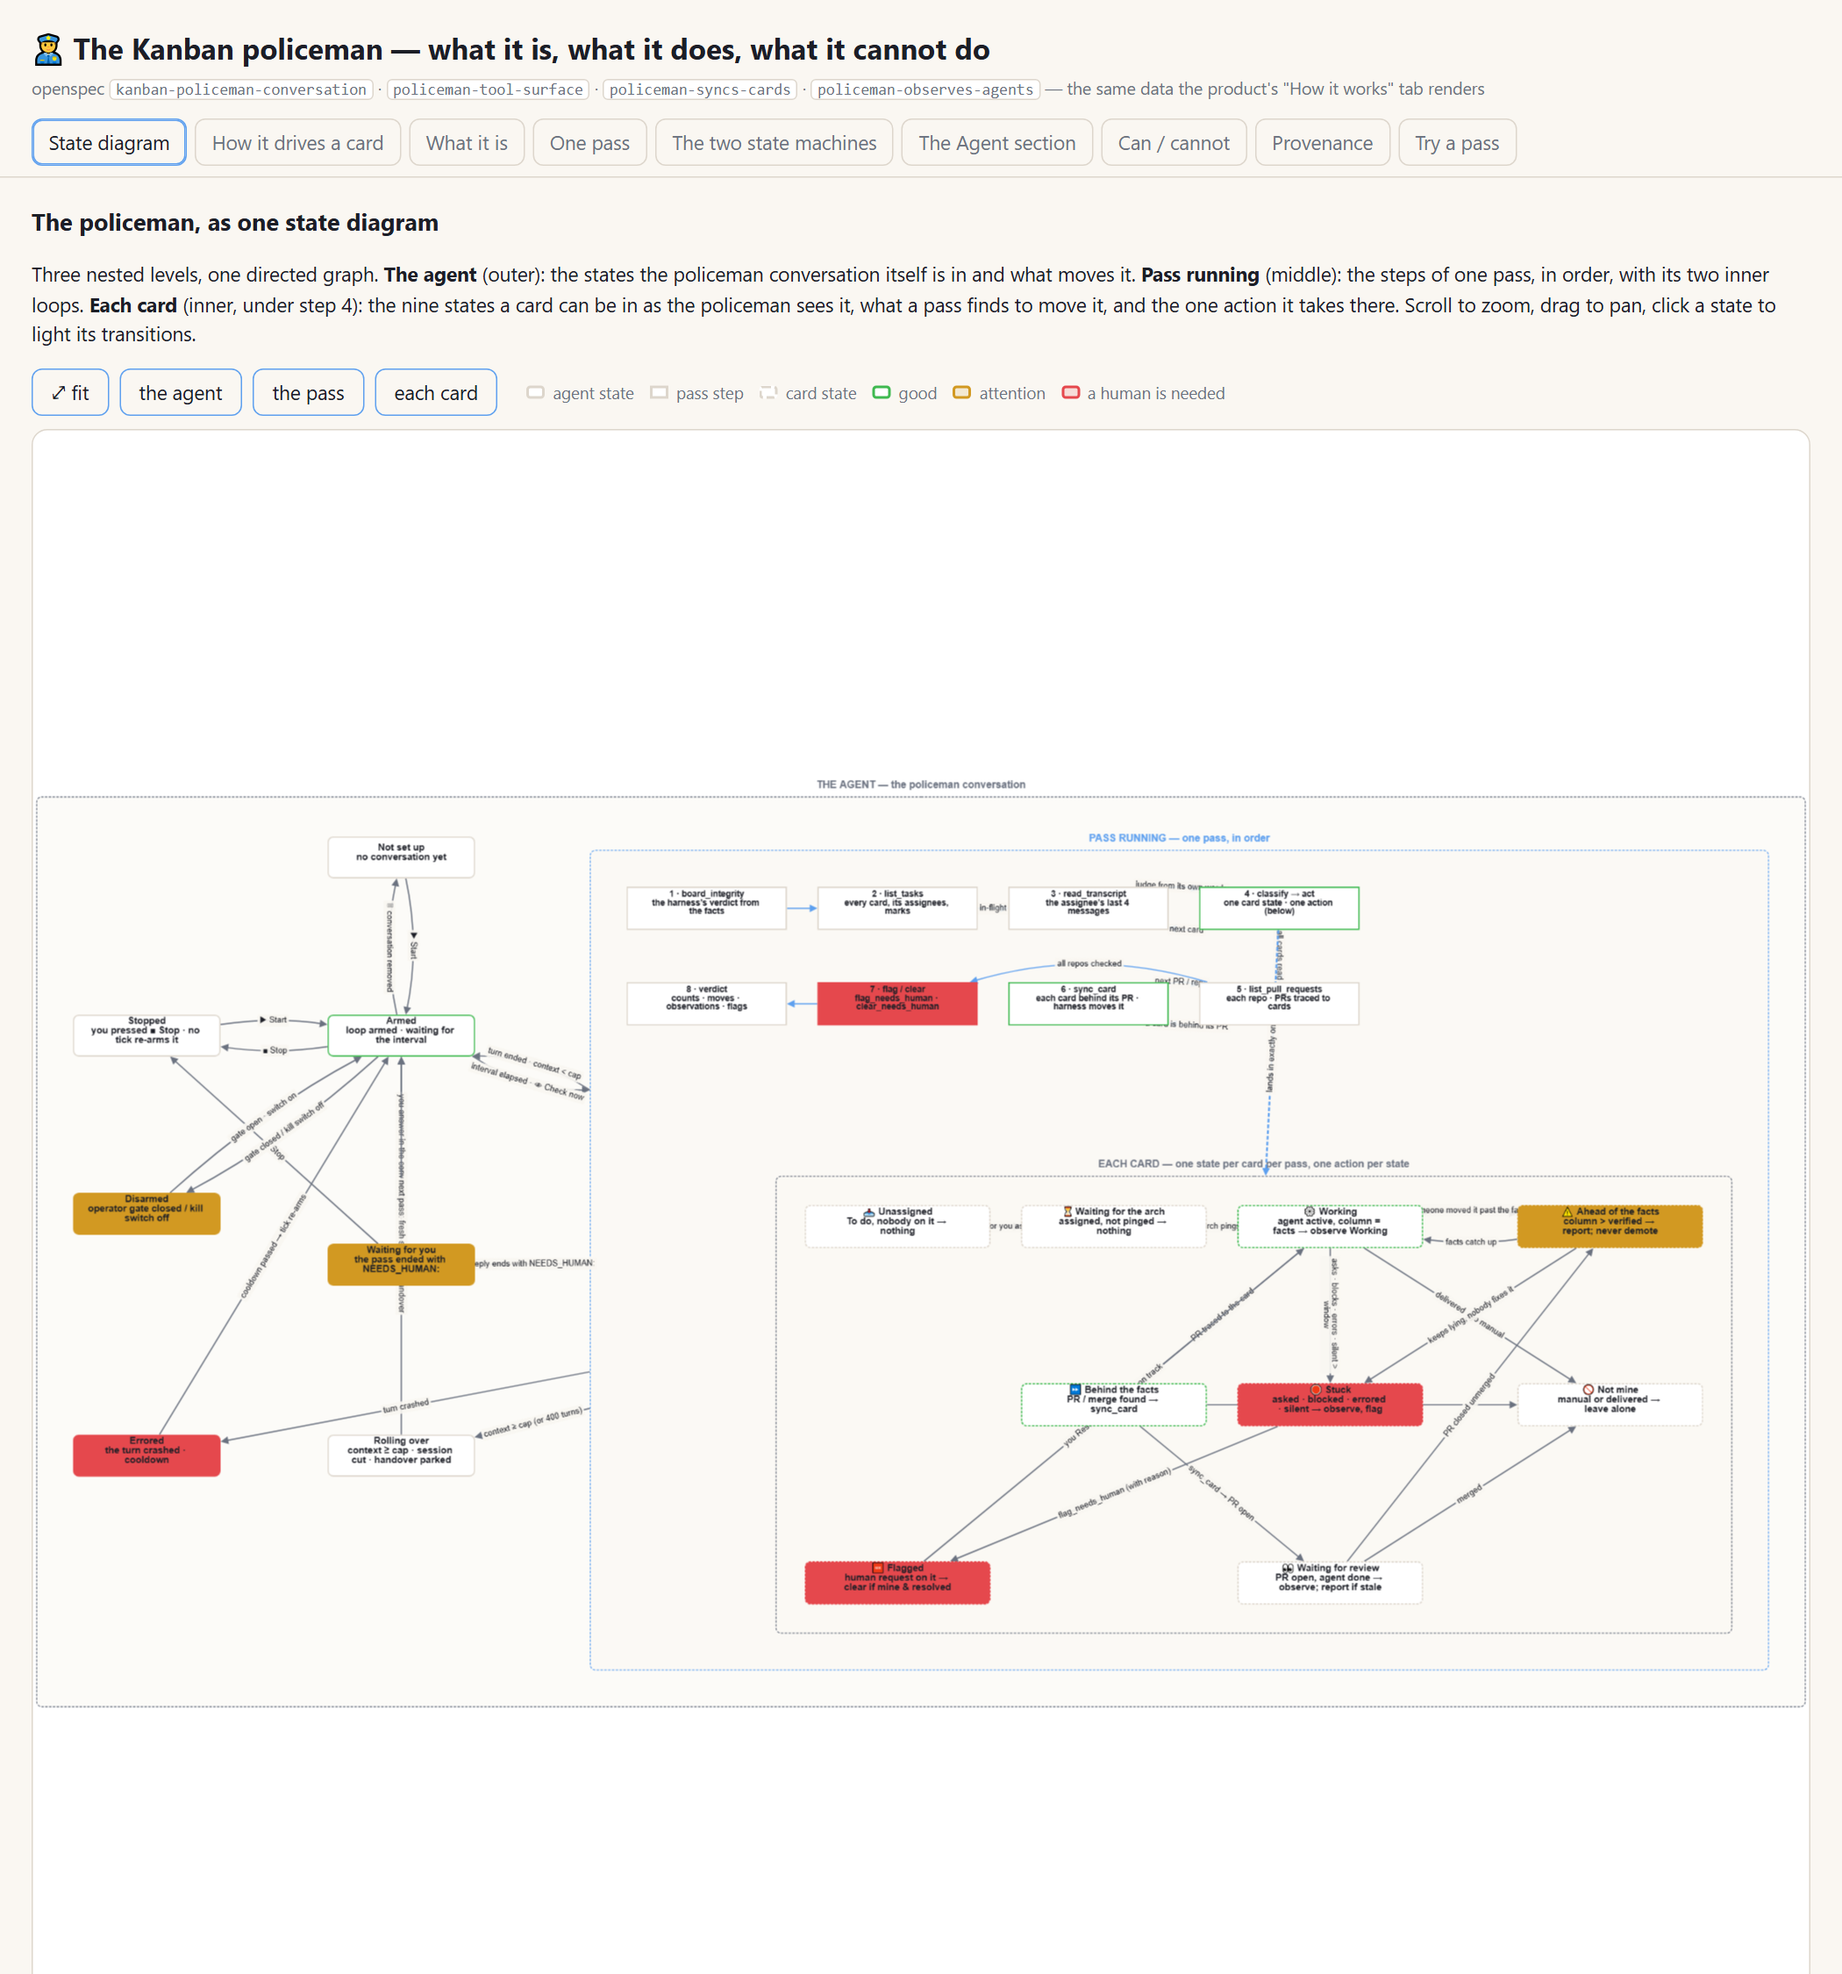
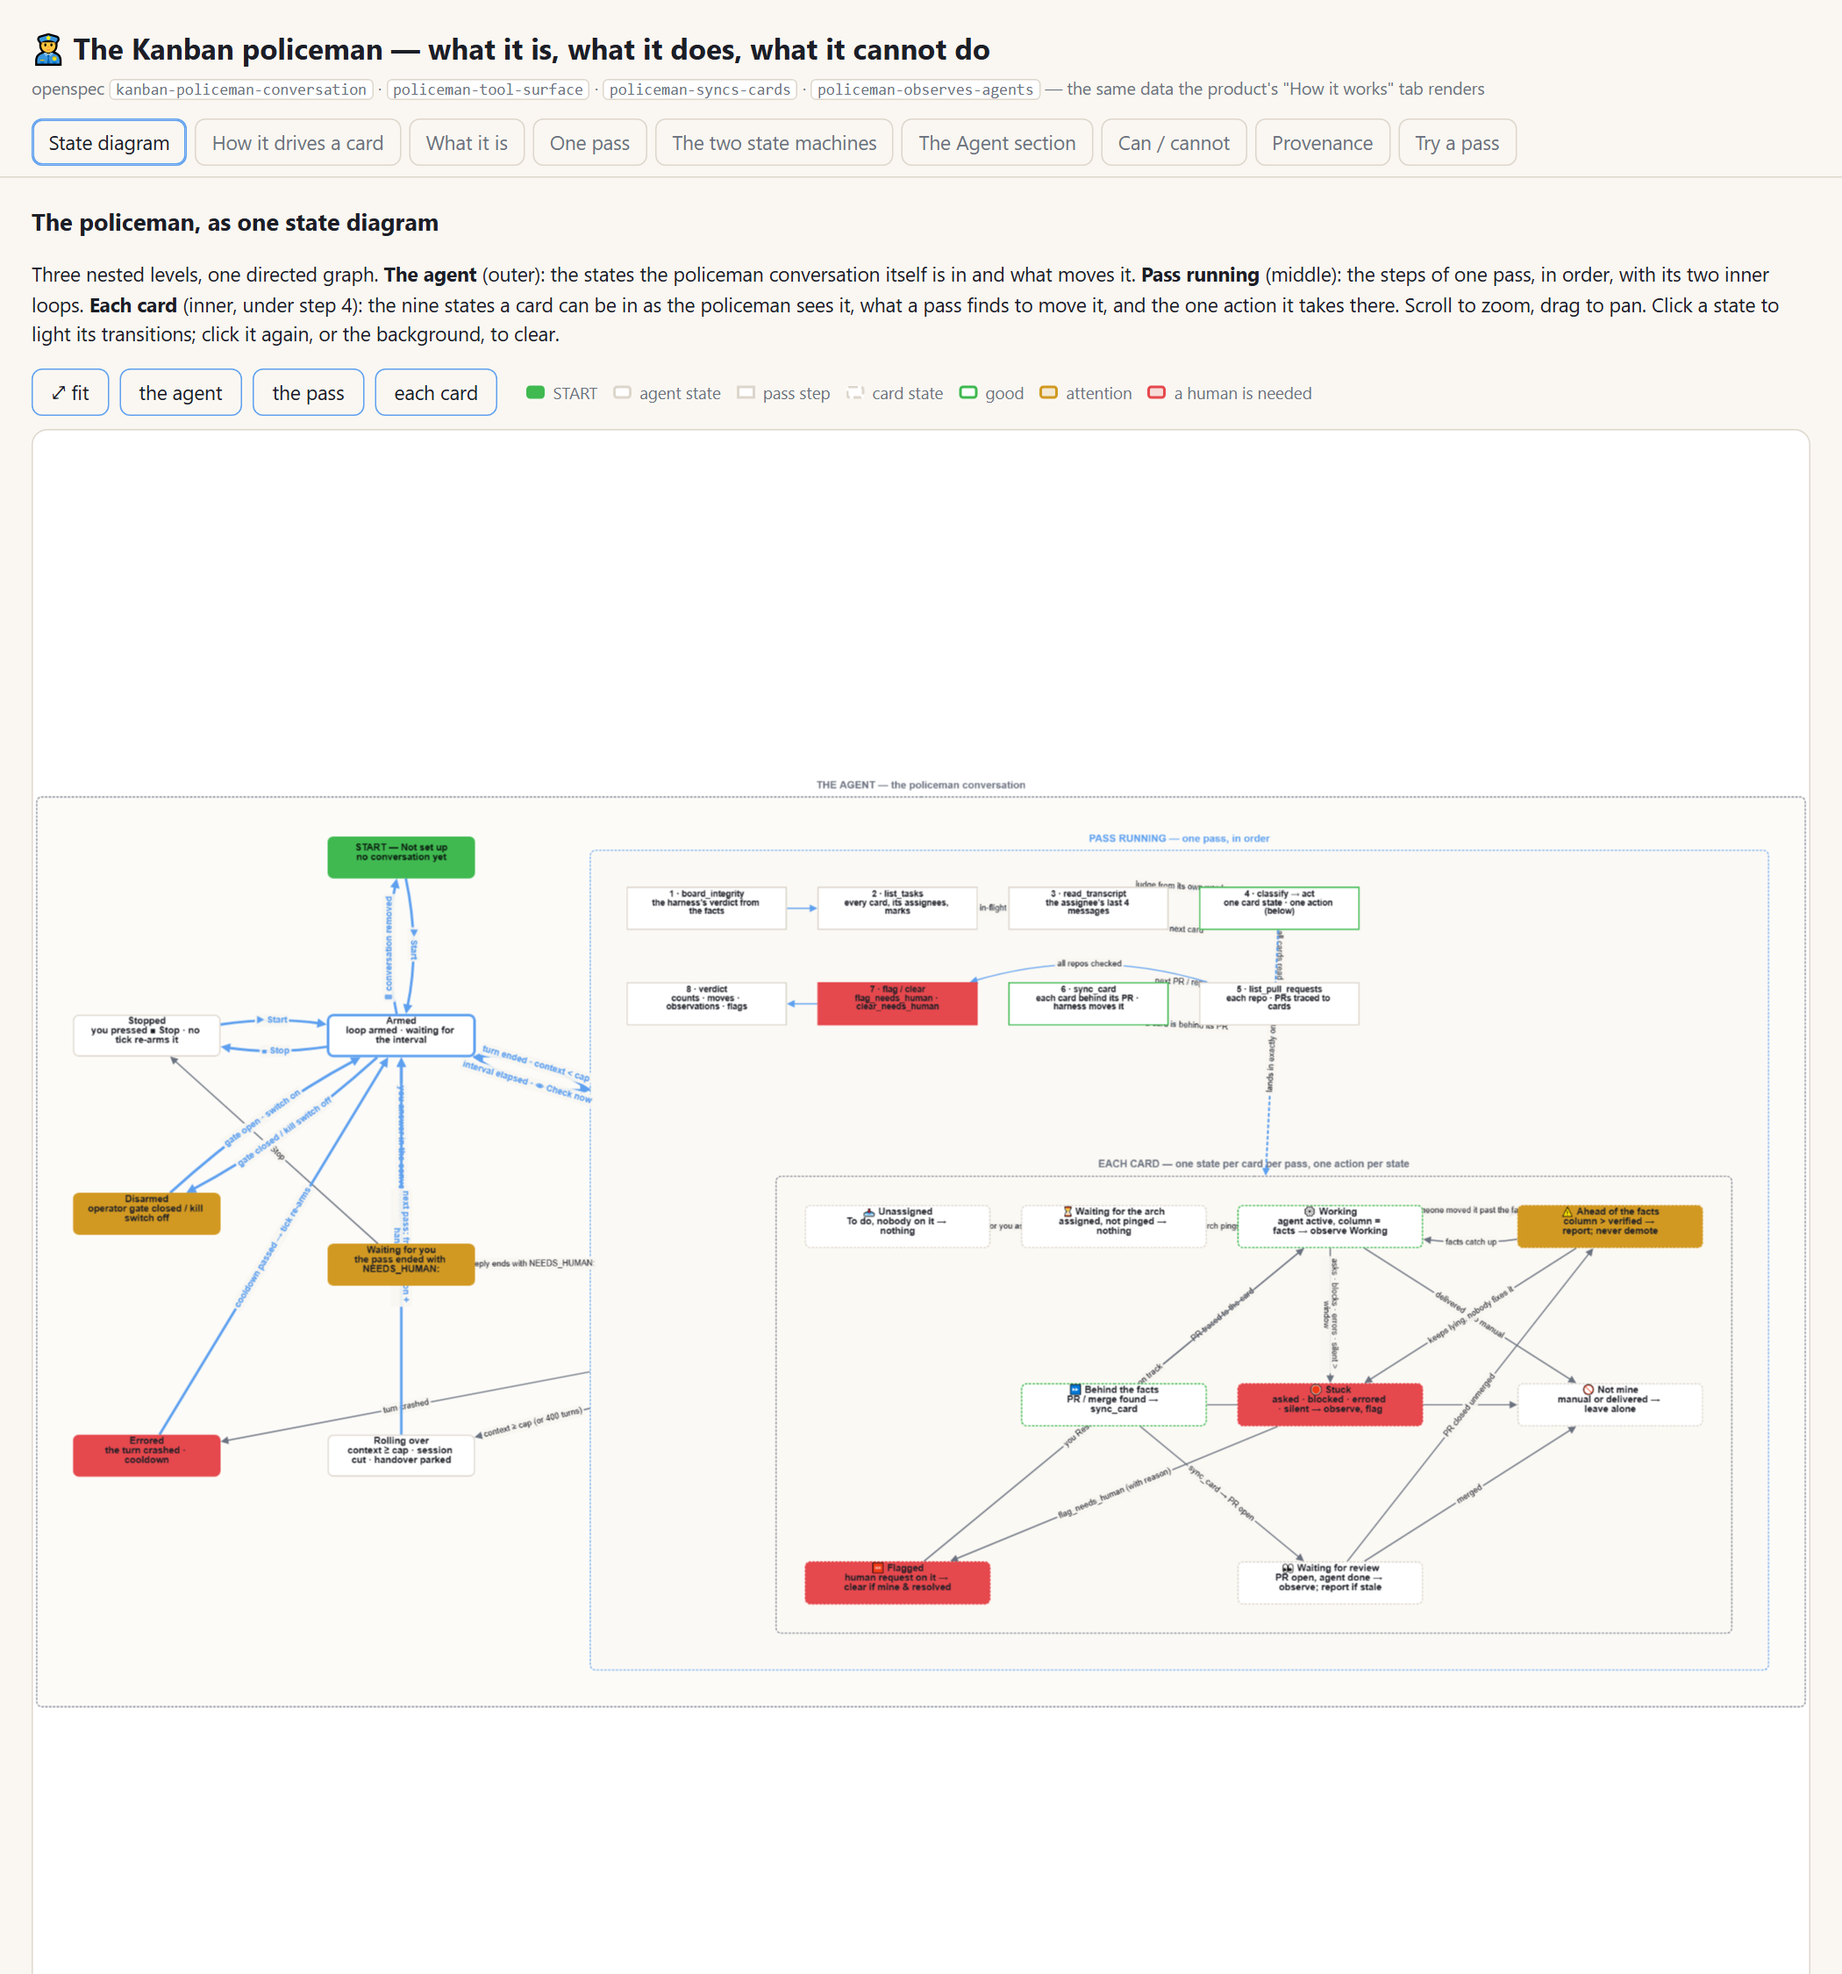
understanding app: click lights only a state's own transitions (no shrink, no dimming, click again to clear); START node green

diff --git a/understanding-app/app.js b/understanding-app/app.js
@@ -35,6 +35,7 @@ const cy = window.cytoscape({
   elements: toElements(),
   layout: { name: 'preset', fit: true, padding: 30 },
   wheelSensitivity: 0.2,
+  autounselectify: true,
   style: [
     { selector: 'node', style: { 'label': 'data(label)', 'text-wrap': 'wrap', 'text-max-width': 190, 'font-size': 15, 'font-weight': 700, 'color': css('--text'), 'text-valign': 'center', 'text-halign': 'center', 'shape': 'round-rectangle', 'width': 230, 'height': 64, 'background-color': css('--surface'), 'border-width': 2, 'border-color': css('--border'), 'text-margin-y': -8 } },
     { selector: 'node[sub]', style: { 'label': (n) => n.data('label') + '\n' + n.data('sub') } },
@@ -51,23 +52,23 @@ const cy = window.cytoscape({
     { selector: 'edge.flow', style: { 'line-color': css('--accent'), 'target-arrow-color': css('--accent') } },
     { selector: 'edge.link', style: { 'line-style': 'dashed', 'line-color': css('--accent'), 'target-arrow-color': css('--accent'), 'width': 3 } },
     { selector: 'edge.card', style: { 'line-color': css('--muted') } },
-    { selector: '.lit', style: { 'line-color': css('--accent'), 'target-arrow-color': css('--accent'), 'width': 3.5, 'color': css('--accent'), 'font-weight': 700, 'z-index': 9 } },
+    { selector: 'node.tone-start', style: { 'background-color': css('--green'), 'border-color': css('--green'), 'color': '#0b1a10' } },
+    { selector: 'edge.lit', style: { 'line-color': css('--accent'), 'target-arrow-color': css('--accent'), 'width': 4, 'color': css('--accent'), 'font-weight': 700, 'font-size': 14, 'z-index': 9 } },
     { selector: 'node.lit', style: { 'border-width': 4, 'border-color': css('--accent') } },
-    { selector: '.dim', style: { 'opacity': 0.18 } },
+    { selector: 'node:selected, edge:selected', style: { 'overlay-opacity': 0 } },
   ],
 });
 window.cy = cy;
 cy.on('tap', 'node', (ev) => {
   const n = ev.target;
   if (n.hasClass('group')) return;
-  cy.elements().removeClass('lit dim');
-  const edges = n.connectedEdges();
-  const near = edges.connectedNodes().union(n);
-  cy.elements().not(edges).not(near).not('node.group').addClass('dim');
-  edges.addClass('lit');
+  const again = n.hasClass('lit');
+  cy.elements().removeClass('lit');
+  if (again) return; // a second click on the same state clears it
+  n.connectedEdges().addClass('lit');
   n.addClass('lit');
 });
-cy.on('tap', (ev) => { if (ev.target === cy) cy.elements().removeClass('lit dim'); });
+cy.on('tap', (ev) => { if (ev.target === cy) cy.elements().removeClass('lit'); });
 const focus = (sel) => cy.animate({ fit: { eles: cy.$(sel), padding: 40 }, duration: 350 });
 $('#cy-fit').addEventListener('click', () => cy.animate({ fit: { eles: cy.elements(), padding: 30 }, duration: 350 }));
 $('#cy-agent').addEventListener('click', () => focus('node[kind="state"], node#pass'));

diff --git a/understanding-app/index.html b/understanding-app/index.html
@@ -26,13 +26,13 @@
 <main>
 <section class="view is-on" data-view="machine">
   <h2>The policeman, as one state diagram</h2>
-  <p>Three nested levels, one directed graph. <b>The agent</b> (outer): the states the policeman conversation itself is in and what moves it. <b>Pass running</b> (middle): the steps of one pass, in order, with its two inner loops. <b>Each card</b> (inner, under step 4): the nine states a card can be in as the policeman sees it, what a pass finds to move it, and the one action it takes there. Scroll to zoom, drag to pan, click a state to light its transitions.</p>
+  <p>Three nested levels, one directed graph. <b>The agent</b> (outer): the states the policeman conversation itself is in and what moves it. <b>Pass running</b> (middle): the steps of one pass, in order, with its two inner loops. <b>Each card</b> (inner, under step 4): the nine states a card can be in as the policeman sees it, what a pass finds to move it, and the one action it takes there. Scroll to zoom, drag to pan. Click a state to light its transitions; click it again, or the background, to clear.</p>
   <div class="cybar">
     <button class="btn" id="cy-fit">⤢ fit</button>
     <button class="btn" id="cy-agent">the agent</button>
     <button class="btn" id="cy-pass">the pass</button>
     <button class="btn" id="cy-cards">each card</button>
-    <span class="legend"><i class="sw sw-state"></i> agent state <i class="sw sw-step"></i> pass step <i class="sw sw-card"></i> card state <i class="sw sw-ok"></i> good <i class="sw sw-warn"></i> attention <i class="sw sw-bad"></i> a human is needed</span>
+    <span class="legend"><i class="sw sw-start"></i> START <i class="sw sw-state"></i> agent state <i class="sw sw-step"></i> pass step <i class="sw sw-card"></i> card state <i class="sw sw-ok"></i> good <i class="sw sw-warn"></i> attention <i class="sw sw-bad"></i> a human is needed</span>
   </div>
   <div id="cy" class="cy" data-cy></div>
   <p class="note">Positions are laid by hand so the picture is stable; the data (<code>policemanStateMachine.js</code>) is the same module the client tests validate: every endpoint known, every state reachable, no dead end but the terminal ones, and nothing moves a card backwards.</p>

diff --git a/understanding-app/app.css b/understanding-app/app.css
@@ -35,7 +35,7 @@ main { padding: 20px 24px 40px; }
 .cybar { display: flex; flex-wrap: wrap; align-items: center; gap: 8px; margin: 10px 0; }
 .legend { color: var(--muted); font-size: 12.5px; display: inline-flex; align-items: center; gap: 6px; flex-wrap: wrap; margin-left: 8px; }
 .sw { display: inline-block; width: 14px; height: 10px; border: 2px solid var(--border); border-radius: 3px; background: var(--surface); margin-left: 6px; }
-.sw-step { border-radius: 0; } .sw-card { border-style: dashed; } .sw-ok { border-color: var(--green); } .sw-warn { border-color: var(--amber); background: rgba(210,153,34,.15); } .sw-bad { border-color: var(--red); background: rgba(229,72,77,.15); }
+.sw-start { background: var(--green); border-color: var(--green); } .sw-step { border-radius: 0; } .sw-card { border-style: dashed; } .sw-ok { border-color: var(--green); } .sw-warn { border-color: var(--amber); background: rgba(210,153,34,.15); } .sw-bad { border-color: var(--red); background: rgba(229,72,77,.15); }
 .pd__action { font-size: 11px; font-weight: 600; fill: var(--text); }
 .pd__state.is-on rect { stroke-width: 3; }
 .pd__edge.is-on path { stroke: var(--accent); stroke-width: 2.2; } .pd__edge.is-on .pd__elabel { fill: var(--accent); font-weight: 700; }

diff --git a/client/src/components/taskgraph/policemanStateMachine.js b/client/src/components/taskgraph/policemanStateMachine.js
@@ -22,7 +22,7 @@ export const NODES = [
   { id: 'cards', label: 'EACH CARD — one state per card per pass, one action per state', kind: 'group', parent: 'pass' },
 
   // ---- level 1: the agent ------------------------------------------------------------------
-  S('off', 'Not set up', 'no conversation yet', -900, -80, { parent: 'agent' }),
+  S('off', 'START — Not set up', 'no conversation yet', -900, -80, { parent: 'agent', tone: 'start' }),
   S('armed', 'Armed', 'loop armed · waiting for the interval', -900, 200, { parent: 'agent', tone: 'ok' }),
   S('stopped', 'Stopped', 'you pressed ■ Stop · no tick re-arms it', -1300, 200, { parent: 'agent' }),
   S('paused', 'Disarmed', 'operator gate closed / kill switch off', -1300, 480, { parent: 'agent', tone: 'warn' }),

diff --git a/understanding-app/policemanStateMachine.js b/understanding-app/policemanStateMachine.js
@@ -23,7 +23,7 @@ export const NODES = [
   { id: 'cards', label: 'EACH CARD — one state per card per pass, one action per state', kind: 'group', parent: 'pass' },
 
   // ---- level 1: the agent ------------------------------------------------------------------
-  S('off', 'Not set up', 'no conversation yet', -900, -80, { parent: 'agent' }),
+  S('off', 'START — Not set up', 'no conversation yet', -900, -80, { parent: 'agent', tone: 'start' }),
   S('armed', 'Armed', 'loop armed · waiting for the interval', -900, 200, { parent: 'agent', tone: 'ok' }),
   S('stopped', 'Stopped', 'you pressed ■ Stop · no tick re-arms it', -1300, 200, { parent: 'agent' }),
   S('paused', 'Disarmed', 'operator gate closed / kill switch off', -1300, 480, { parent: 'agent', tone: 'warn' }),
